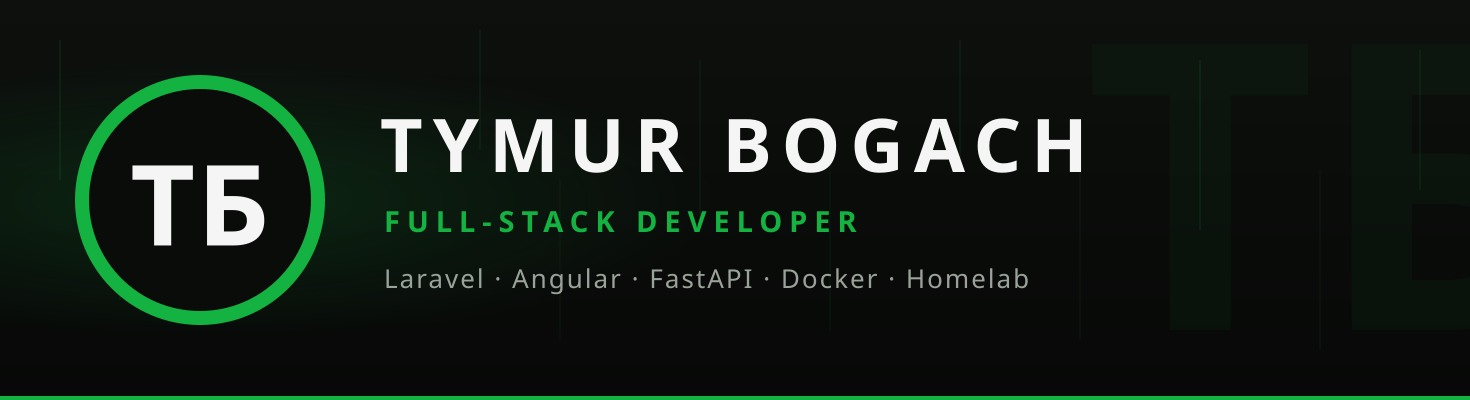
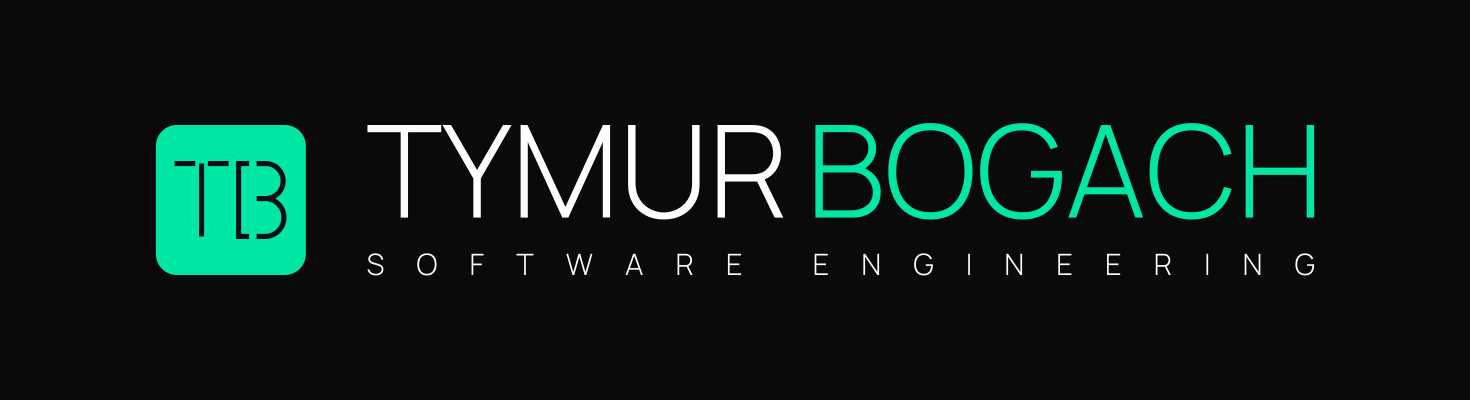
docs(perfil): marca nueva y readme pensado para buscar trabajo
Sustituye la marca provisional por el sello barra partida y el lockup.
Añade portada para modo claro y oscuro, terminal animada, llamada a contratar,
proyectos, recorrido y enlaces al CV. Los badges usan el mint de la marca.

diff --git a/README.md b/README.md
@@ -1,61 +1,92 @@
 <p align="center">
-  <b>Full-stack developer</b> · Orihuela, Alicante (Spain)<br>
-  I build web applications end to end, plus the Linux desktop tools and the homelab they run on.
+  <a href="https://nastymur.com">
+    <picture>
+      <source media="(prefers-color-scheme: light)" srcset="assets/banner-light.png">
+      <img src="assets/banner.png" alt="Tymur Bogach · Software Engineering" width="100%">
+    </picture>
+  </a>
 </p>
 
 <p align="center">
-  <a href="https://nastymur.com"><img src="https://img.shields.io/badge/web-nastymur.com-13b241?style=flat-square" alt="portfolio"></a>
-  <a href="https://lazytripz.nastymur.com"><img src="https://img.shields.io/badge/app-LazyTripZ-13b241?style=flat-square" alt="LazyTripZ"></a>
-  <a href="https://www.linkedin.com/in/tymur-bogach/"><img src="https://img.shields.io/badge/LinkedIn-tymur--bogach-0A66C2?style=flat-square&logo=linkedin&logoColor=white" alt="LinkedIn"></a>
-  <img src="https://img.shields.io/badge/open%20to-full--stack%20roles-13b241?style=flat-square" alt="open to full-stack roles">
+  <a href="mailto:tymurbogach@gmail.com"><img src="https://img.shields.io/badge/OPEN_TO_WORK-full--stack_·_backend-00e6a5?style=for-the-badge&labelColor=0b1016&color=00e6a5" alt="open to work"></a>
+  <img src="https://img.shields.io/badge/Orihuela_·_Alicante_·_ES-0b1016?style=for-the-badge" alt="Orihuela, Alicante, Spain">
 </p>
 
-## What I do
+<p align="center">
+  <a href="https://nastymur.com"><b>Portfolio</b></a> ·
+  <a href="https://nastymur.com/TymurBogach_CV_EN.pdf"><b>CV (EN)</b></a> ·
+  <a href="https://nastymur.com/TymurBogach_CV_ES.pdf"><b>CV (ES)</b></a> ·
+  <a href="https://www.linkedin.com/in/tymur-bogach/"><b>LinkedIn</b></a> ·
+  <a href="mailto:tymurbogach@gmail.com"><b>Email</b></a>
+</p>
 
-- **Full-stack web**: Laravel and Angular products, from database schema to deployed container.
-- **Backend and tooling**: Python with FastAPI, PostgreSQL, async jobs, tested with pytest.
-- **Self-hosting**: a two-node homelab with ~50 Docker containers, run and monitored by me.
-- **Linux desktop**: QML and Bash widgets and themes for [Omarchy](https://omarchy.org).
+<p align="center">
+  <img src="assets/terminal.svg" alt="whoami: Tymur Bogach, software engineer. Stack: Laravel, Angular, Astro, Python, Docker. Open to opportunities." width="720">
+</p>
+
+## About
+
+I spent more than ten years fixing and repainting vehicles by hand. Now I build software with the same habits:
+diagnose first, do the work properly, and hand it over finished. I build web applications end to end,
+from the database schema to the container in production, and I run the infrastructure they live on.
+
+- **Builds:** Laravel + Angular products, Python / FastAPI services, Astro sites.
+- **Operates:** a two-node homelab with ~50 Docker containers, deploys from Git, monitoring.
+- **Tools:** Linux desktop widgets and themes for [Omarchy](https://omarchy.org) (QML, Bash, Python).
+- **Languages:** Russian · Ukrainian (native) · Spanish (fluent) · English (intermediate).
+- **Education:** CFGS Web Application Development (2023–2025) · Certified Scrum Developer (2026).
 
 ## Featured projects
 
 | Project | What it is | Stack |
 |---|---|---|
-| [LazyTripZ](https://github.com/tymurbogach/LazyTripZ) | Multi-destination trip planner. Async Gemini recommendations, per-trip roles, pets, weather, shared diary. [Live](https://lazytripz.nastymur.com) | Laravel 13 · Angular 21 · MariaDB · Docker |
-| [Portfolio](https://github.com/tymurbogach/Portfolio) | My site plus an interactive CV and a chat widget backed by local Ollama inference. [Live](https://nastymur.com) | Astro · TypeScript · Tailwind · Docker |
-| [ragmur](https://github.com/tymurbogach/ragmur) | Prototype of a multi-tenant retrieval service with per-client data separation. | FastAPI · SQLAlchemy · Qdrant |
+| **[LazyTripZ](https://github.com/tymurbogach/LazyTripZ)** · [live](https://lazytripz.nastymur.com) | Multi-destination trip planner with shared trips, per-trip roles, pets, weather and a diary. Recommendations come from Gemini through async jobs. | Laravel 13 · Angular 21 · MariaDB · OAuth2 · Docker |
+| **[Portfolio](https://github.com/tymurbogach/Portfolio)** · [live](https://nastymur.com) | My site, an interactive CV and a chat widget backed by local Ollama inference. Themed in seven palettes, visual regression tests, self-hosted analytics. | Astro · TypeScript · Tailwind · Docker |
+| **[ragmur](https://github.com/tymurbogach/ragmur)** | Prototype of a multi-tenant retrieval service with per-client data separation, API keys and tenant isolation. | FastAPI · SQLAlchemy · PostgreSQL · Qdrant |
+
+## Open source: desktop tools for Omarchy
+
+| Tool | What it does |
+|---|---|
+| [Enter the Matrix](https://github.com/tymurbogach/omarchy-enter-the-matrix-theme) | Complete Matrix theme: digital rain, lock screen, screensaver, boot splash |
+| [replicant](https://github.com/tymurbogach/replicant) | Save and restore an Omarchy setup across machines |
+| [hardwarchy](https://github.com/tymurbogach/hardwarchy) | Modular hardware read-out for CPU, GPU, memory, disks and fans |
+| [sleepwalker](https://github.com/tymurbogach/omarchy-sleepwalker) | Suspend and lid control from the bar |
+| [battery](https://github.com/tymurbogach/battery) | Power profiles, charge limit and consumption history |
+| [agents](https://github.com/tymurbogach/agents) | Usage widget for AI coding agents with pluggable collectors |
 
 ## The homelab behind it
 
 ```text
-TrueNAS SCALE (ZFS)  ·  Raspberry Pi 5  ·  ~50 containers  ·  Tailscale + Cloudflare tunnels
+TrueNAS SCALE (ZFS) · Raspberry Pi 5
+~50 containers · Tailscale + Cloudflare tunnels
 ```
 
-Media automation, photo management, local LLM inference (Ollama), private web search (SearXNG),
-reverse proxy, monitoring, and deploy scripts kept in one Git repo.
-LazyTripZ and this portfolio run on it today.
-
-## Omarchy desktop tools
-
-| Tool | Purpose |
-|---|---|
-| [Enter the Matrix](https://github.com/tymurbogach/omarchy-enter-the-matrix-theme) | Complete Matrix theme: digital rain, lock, screensaver, boot splash |
-| [hardwarchy](https://github.com/tymurbogach/hardwarchy) | Modular hardware read-out for CPU, GPU, memory, disks and fans |
-| [replicant](https://github.com/tymurbogach/replicant) | Save and restore an Omarchy setup across machines |
-| [omarchy-sleepwalker](https://github.com/tymurbogach/omarchy-sleepwalker) | Suspend and lid control from the bar |
-| [battery](https://github.com/tymurbogach/battery) | Power profiles, charge limit and consumption history |
+Reverse proxy, monitoring, local LLM inference (Ollama), private search (SearXNG), media and photo services,
+and deploy scripts, all kept in one Git repository. LazyTripZ and my portfolio run on it today.
 
 ## Stack
 
 <p>
-  <img src="https://skillicons.dev/icons?i=ts,angular,astro,tailwind" alt="frontend">
-  <img src="https://skillicons.dev/icons?i=php,laravel,python,fastapi" alt="backend">
-  <img src="https://skillicons.dev/icons?i=mysql,postgres,docker,linux" alt="data and infra">
+  <img src="https://skillicons.dev/icons?i=ts,js,angular,astro,tailwind,html,css" alt="frontend"><br>
+  <img src="https://skillicons.dev/icons?i=php,laravel,python,fastapi,java" alt="backend"><br>
+  <img src="https://skillicons.dev/icons?i=mysql,postgres,docker,nginx,linux,bash,git" alt="data and infrastructure">
 </p>
 
-## Contact
+## Path
 
-<p>
-  <a href="mailto:tymurbogach@gmail.com"><img src="https://img.shields.io/badge/email-tymurbogach@gmail.com-13b241?style=flat-square" alt="email"></a>
-  <a href="https://www.linkedin.com/in/tymur-bogach/"><img src="https://img.shields.io/badge/LinkedIn-tymur--bogach-0A66C2?style=flat-square&logo=linkedin&logoColor=white" alt="LinkedIn"></a>
+- **2026** · Certified Scrum Developer. Building LazyTripZ, ragmur and the Omarchy tools in the open.
+- **2025** · Development intern at GesinFlot by TDI (Murcia): Android fleet-management app in Java, REST integration, APK delivery.
+- **2023–2025** · CFGS in Web Application Development (HTML, CSS, JavaScript, TypeScript, PHP, Java, SQL, Angular, Laravel, Docker).
+- **2012–2024** · Body and paint technician: structural repair, welding, finishing and delivery of vehicles.
+
+## Let's talk
+
+I'm looking for a full-stack or backend role where I can own features from schema to production.
+The quickest way to reach me is email. My CV is one click away above.
+
+<p align="center">
+  <a href="mailto:tymurbogach@gmail.com"><img src="https://img.shields.io/badge/email-tymurbogach@gmail.com-008f68?style=for-the-badge" alt="email"></a>
+  <a href="https://www.linkedin.com/in/tymur-bogach/"><img src="https://img.shields.io/badge/LinkedIn-tymur--bogach-0A66C2?style=for-the-badge&logo=linkedin&logoColor=white" alt="LinkedIn"></a>
+  <a href="https://nastymur.com"><img src="https://img.shields.io/badge/web-nastymur.com-0b1016?style=for-the-badge" alt="portfolio"></a>
 </p>
